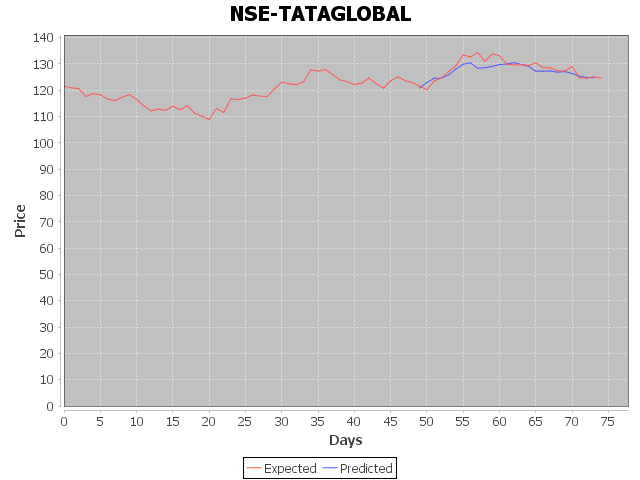
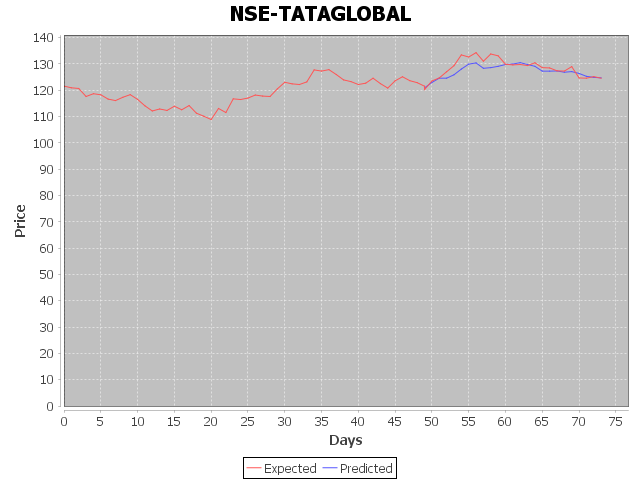
Test.java

diff --git a/src/main/java/org/pp/Predict.java b/src/main/java/org/pp/Predict.java
@@ -9,9 +9,7 @@ import org.jfree.chart.JFreeChart;
 import org.jfree.chart.plot.PlotOrientation;
 import org.jfree.data.xy.XYSeries;
 import org.jfree.data.xy.XYSeriesCollection;
-import org.nd4j.evaluation.regression.RegressionEvaluation;
 import org.nd4j.linalg.api.ndarray.INDArray;
-import org.nd4j.linalg.dataset.DataSet;
 import org.nd4j.linalg.dataset.api.iterator.BaseDatasetIterator;
 import org.nd4j.linalg.factory.Nd4j;
 import org.pp.data.CustomDataPrePreprocessor;

diff --git a/src/main/java/org/pp/Test.java b/src/main/java/org/pp/Test.java
@@ -112,7 +112,7 @@ public class Test {
         for (int i = 0; i < inpNum; i++)
             expectedSeries.add(i, expInput.getDouble(0, i, 0));
         for (int i = 0; i < outNum; i++)
-            expectedSeries.add(i+inpNum, expOutput.getDouble(0, i));
+            expectedSeries.add(i+(inpNum-1), expOutput.getDouble(0, i));
 
         return expectedSeries;
     }
